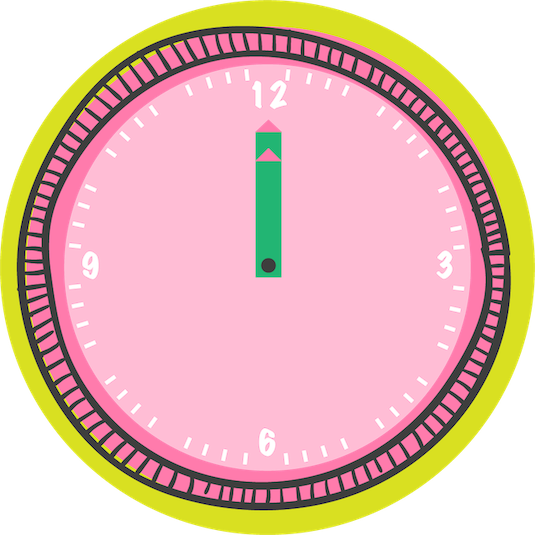
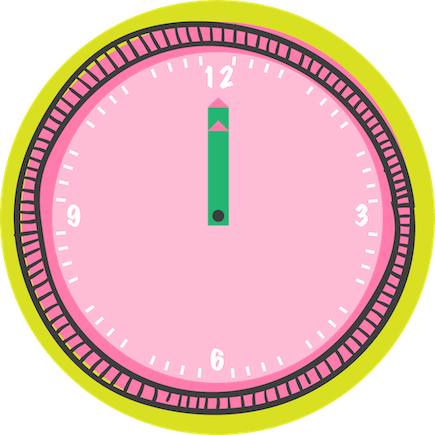
EA1 für GVT
Animationen für die EA1

diff --git a/EA1-Scheibe.html b/EA1-Scheibe.html
@@ -1,27 +1,61 @@
-<!DOCTYPE html>
+<!DOCTYPE html> <!--START-->
 <html>
 <head>
     <style>
-        #animierte-scheibe {
-            width: 435px; /* Breite des Bildes */
-            height: 435px; /* Höhe des Bildes */
-            position: relative;
+        /* Allgemeiner Container-Stil, um Inhalte zu links zu platzieren */
+        .center-container {
+            text-align: center;
         }
 
         /* Stil des Skaters */
         #hopping-skater {
             width: 530px; /* Breite des Skaters */
             height: 471px; /* Höhe des Skaters */
-            background-image: url('spritesheet.png'); /* Pfad zum Sprite-Sheet, Skatergrafik ist von freepik.com */
+            background-image: url('spritesheet.png'); /* Pfad zum Spritesheet, Skatergrafik ist von freepik.com */
             background-repeat: no-repeat;
-            position: absolute;
-            bottom: 20px; /* Startposition unten (angepasst) */
+        }
+
+        /* Container-Stil für Animationen */
+        .animation-container {
+            width: 50%; /* 50% der Breite des Bildschirms für jede Animation */
+            display: inline-block;
+            text-align: center;
+            position: relative;
+        }
+
+        #animierte-scheibe {
+            width: 365px; /* Breite des Bildes */
+            height: 365px; /* Höhe des Bildes */
+        }
+
+        /* Textfarbe in Anthrazit */
+        h1, h2, h3, p {
+            color: #333; /* Anthrazitfarbe in Hexadezimal (Grau) */
+            text-align: center;
         }
     </style>
 </head>
+
 <body>
-    <img id="animierte-scheibe" src="1.png" alt="animierte Scheibe">
-    <div id="hopping-skater"></div> <!-- Skater unterhalb des rotierenden Rads -->
+    <h1> EA1 - Animierte Scheibe </h1>  <!-- Titel der Arbeit und weitere Unterschriften + Beschreibungen -->
+    <h3> von Makbule Balin im Modul Graphical Visualisation Technologies </h3>
+    <p>Die Uhr rotiert automatisch beim Laden der Seite. Mit Klick auf die Taste <b>'a'</b> kann man die Animation stoppen und weiterführen.<br> Die Uhr habe ich in Illustrator designt. Für die Programmierung der Elemente wurden diverse Websites, wie w3schools.com, wiki.selfhtml.org und youtube.com zur Hilfe gezogen.</p>
+    <br>
+    <br>
+
+    <div class="center-container">
+        <div class="animation-container">
+            <img id="animierte-scheibe" src="1.png" alt="animierte Scheibe">
+        </div>
+
+        <div class="animation-container">
+            <br> 
+            <br>
+            <h2> Erweiterung - Cooler Skater </h2>
+            <p>Dies ist ein Skater, der einen <b>'Ollie'</b> macht. Die Grafiken sind von freepik.com. Das Spritesheet habe ich in Illustrator erstellt. </p>
+            <div id="hopping-skater"></div> <!-- Skater unterhalb der rotierenden Uhr -->
+        </div>
+    </div>
 
     <script>
         const imageFiles = [
@@ -40,7 +74,7 @@
                 // Aktuelles Bild laden und anzeigen
                 imageElement.src = imageFiles[currentImageIndex];
 
-                // Zum nächsten Bild wechseln (zyklisch)
+                // Zum nächsten Bild wechseln 
                 currentImageIndex = (currentImageIndex + 1) % imageFiles.length;
             }
 
@@ -84,8 +118,6 @@
 
         // Startet die Animation, wenn die Seite geladen ist
         startHoppingAnimation();
-
     </script>
 </body>
-
-</html>
+</html> <!--END-->
